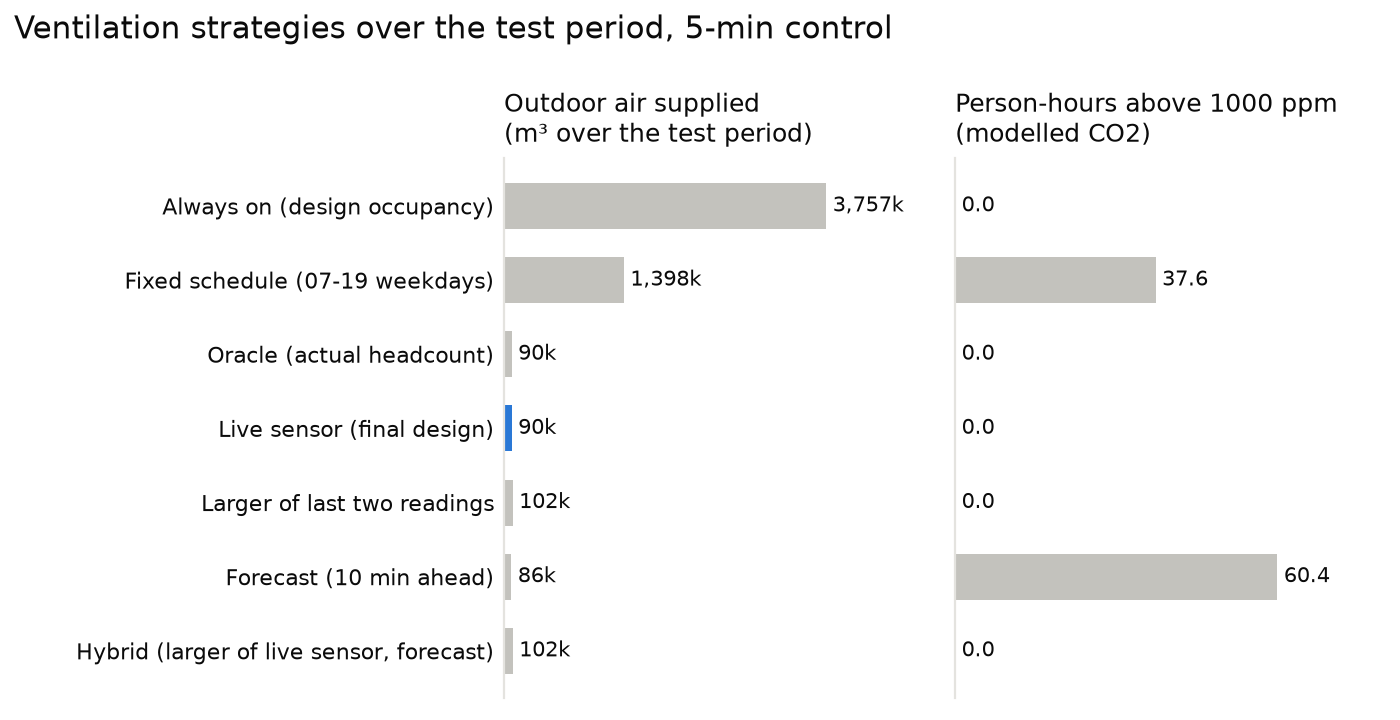
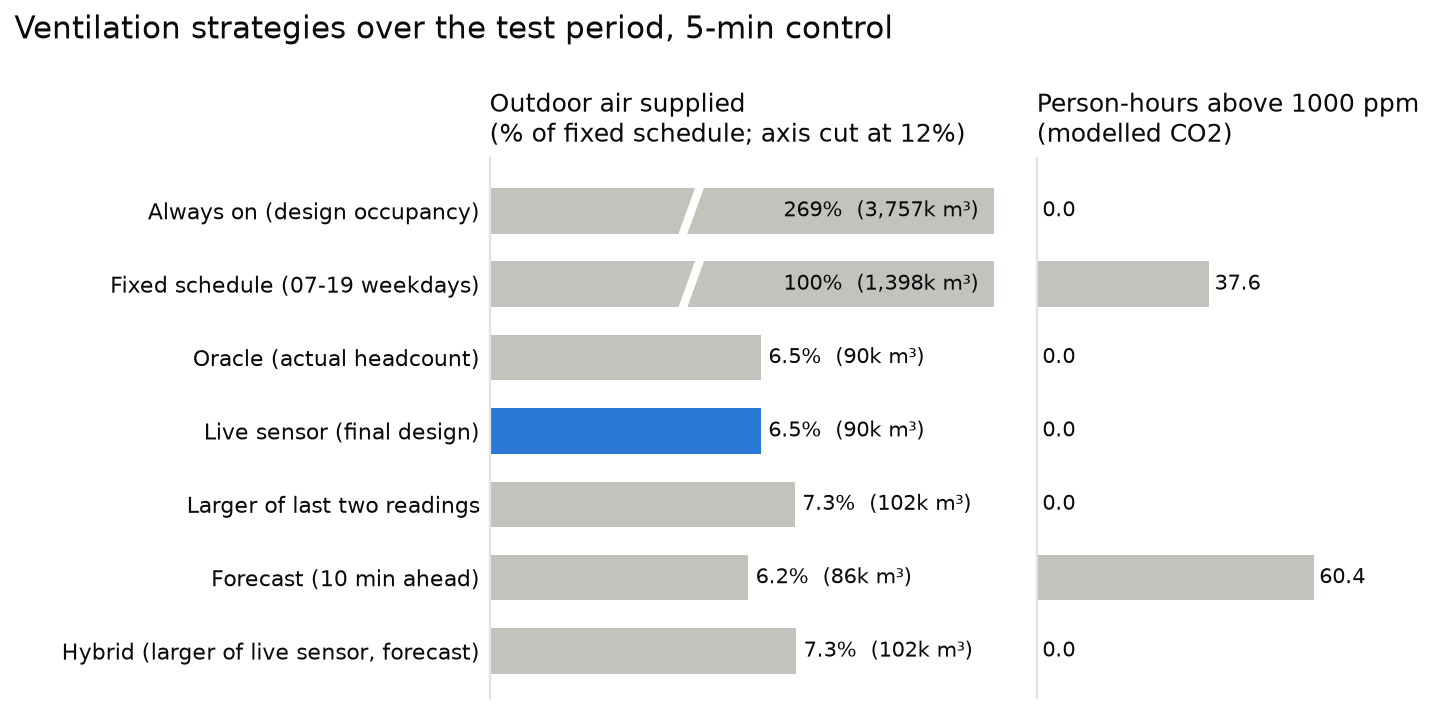
Redraw Figure 1 so the demand-controlled strategies are readable
The always-on baseline (3,757k m3) set the air axis, leaving the five
strategies that matter (86k-102k m3) as slivers. Air is now shown as a
share of the fixed schedule's, with the axis cut at 12% and the two
baseline bars marked as broken with their values written on them.

diff --git a/scripts/ventilation_study.py b/scripts/ventilation_study.py
@@ -86,6 +86,7 @@ THRESHOLDS = (0.1, 0.25, 0.5, 1.0, 2.0)
 COLORS = {"always_on": "#0b0b0b", "fixed_schedule": "#52514e", "oracle": "#1baf7a", "live_sensor": "#eda100", "recent_max": "#9e9d98",
           "forecast": "#2a78d6", "hybrid": "#6250d6", "live_margin": "#eb6834"}
 INK, MUTED, GRID = "#0b0b0b", "#52514e", "#e4e3df"
+AIR_AXIS_CUT = 12.0  # % of fixed-schedule air where Figure 1's air axis is cut
 ACCENT, MUTED_BAR = "#2a78d6", "#c3c2bd"  # highlighted final design; other strategies
 LABELS = {"always_on": "Always on (design occupancy)", "fixed_schedule": "Fixed schedule (07-19 weekdays)", "oracle": "Oracle (actual headcount)",
           "live_sensor": "Live sensor (previous interval)", "recent_max": "Larger of last two readings",
@@ -235,7 +236,11 @@ def plot_strategies(results: pd.DataFrame, final: str, path: Path) -> None:
     """Outdoor air supplied and person-hours above the CO2 limit per strategy, 5-min control.
 
     Two panels share the strategy rows, so each measure keeps its own scale;
-    the final design is the one highlighted bar.
+    the final design is highlighted. Air is shown as a share of the fixed
+    schedule's. The two baselines use 15-40 times more air than the
+    demand-controlled strategies, which would be slivers on a full scale, so
+    the axis is cut at :data:`AIR_AXIS_CUT` and the baseline bars run off it
+    with a break mark and their value written at the end.
     """
     r = results[results["control"] == "5min"].set_index("strategy")
     order = [k for k in ("always_on", "fixed_schedule", "oracle", "live_sensor", "recent_max", "forecast",
@@ -246,18 +251,32 @@ def plot_strategies(results: pd.DataFrame, final: str, path: Path) -> None:
     colors = [ACCENT if k == final else MUTED_BAR for k in order]
     y = np.arange(len(order))[::-1]
 
-    fig, (left, right) = plt.subplots(1, 2, figsize=(7.0, 3.6), dpi=200, sharey=True)
-    for ax, values, fmt, title in (
-        (left, r["air_m3"] / 1000, "{:,.0f}k", "Outdoor air supplied\n(m³ over the test period)"),
-        (right, r["person_hours_over_limit"], "{:,.1f}", f"Person-hours above {CO2_LIMIT:.0f} ppm\n(modelled CO2)"),
-    ):
-        ax.barh(y, values, height=0.62, color=colors, zorder=2)
-        top = values.max()
-        for yi, v in zip(y, values):
-            ax.text(v + top * 0.02, yi, fmt.format(v), va="center", fontsize=7.5, color=INK)
-        ax.set_xlim(0, top * 1.25 if top > 0 else 1)
-        ax.set_title(title, color=INK, fontsize=9, loc="left")
-        ax.set_xticks([])
+    fig, (left, right) = plt.subplots(1, 2, figsize=(7.2, 3.6), dpi=200, sharey=True,
+                                      gridspec_kw={"width_ratios": [1.4, 1]})
+    share = 100 * r["air_m3"] / r.loc["fixed_schedule", "air_m3"]
+    cut = AIR_AXIS_CUT
+    left.barh(y, share.clip(upper=cut), height=0.62, color=colors, zorder=2)
+    for yi, v, m3 in zip(y, share, r["air_m3"] / 1000):
+        if v > cut:
+            # Break mark: a white slash through the bar near the axis cut.
+            left.plot([cut * 0.38, cut * 0.42], [yi - 0.38, yi + 0.38], color="white", lw=3, zorder=3)
+            left.text(cut * 0.97, yi, f"{v:,.0f}%  ({m3:,.0f}k m³)", va="center", ha="right",
+                      fontsize=7.5, color=INK, zorder=4)
+        else:
+            left.text(v + cut * 0.015, yi, f"{v:.1f}%  ({m3:,.0f}k m³)", va="center", fontsize=7.5, color=INK)
+    left.set_xlim(0, cut)
+    left.set_xticks([])
+    left.set_title("Outdoor air supplied\n(% of fixed schedule; axis cut at "
+                   f"{cut:.0f}%)", color=INK, fontsize=9, loc="left")
+
+    hours = r["person_hours_over_limit"]
+    right.barh(y, hours, height=0.62, color=colors, zorder=2)
+    for yi, v in zip(y, hours):
+        right.text(v + hours.max() * 0.02, yi, f"{v:,.1f}", va="center", fontsize=7.5, color=INK)
+    right.set_xlim(0, hours.max() * 1.3 if hours.max() > 0 else 1)
+    right.set_xticks([])
+    right.set_title(f"Person-hours above {CO2_LIMIT:.0f} ppm\n(modelled CO2)", color=INK, fontsize=9, loc="left")
+    for ax in (left, right):
         style(ax)
         ax.grid(False)
         ax.spines["bottom"].set_visible(False)
@@ -267,7 +286,7 @@ def plot_strategies(results: pd.DataFrame, final: str, path: Path) -> None:
     fig.suptitle("Ventilation strategies over the test period, 5-min control", color=INK, fontsize=11,
                  x=0.01, ha="left")
     # Fixed margins: tight_layout clips the long strategy names next to a suptitle.
-    fig.subplots_adjust(left=0.36, right=0.97, top=0.78, bottom=0.03, wspace=0.12)
+    fig.subplots_adjust(left=0.34, right=0.97, top=0.78, bottom=0.03, wspace=0.10)
     fig.savefig(path, facecolor="white")
 
 
